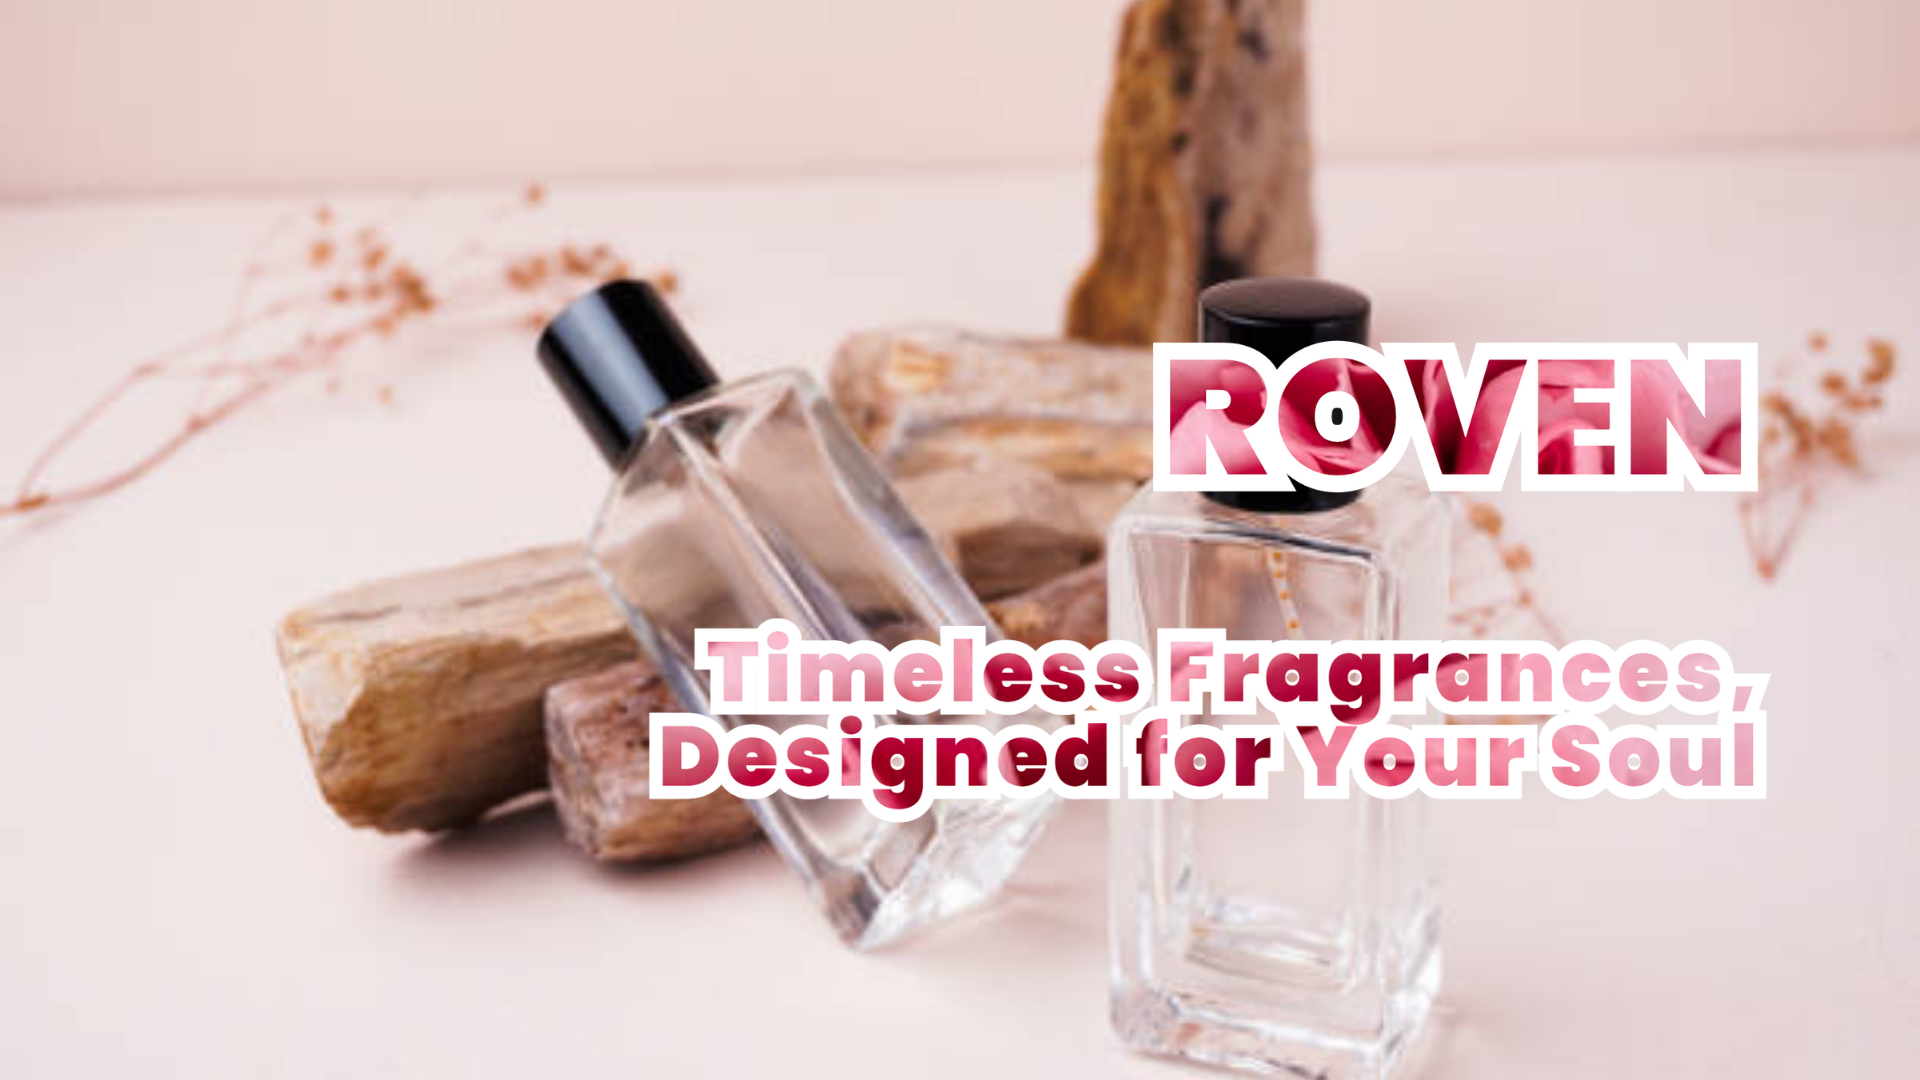
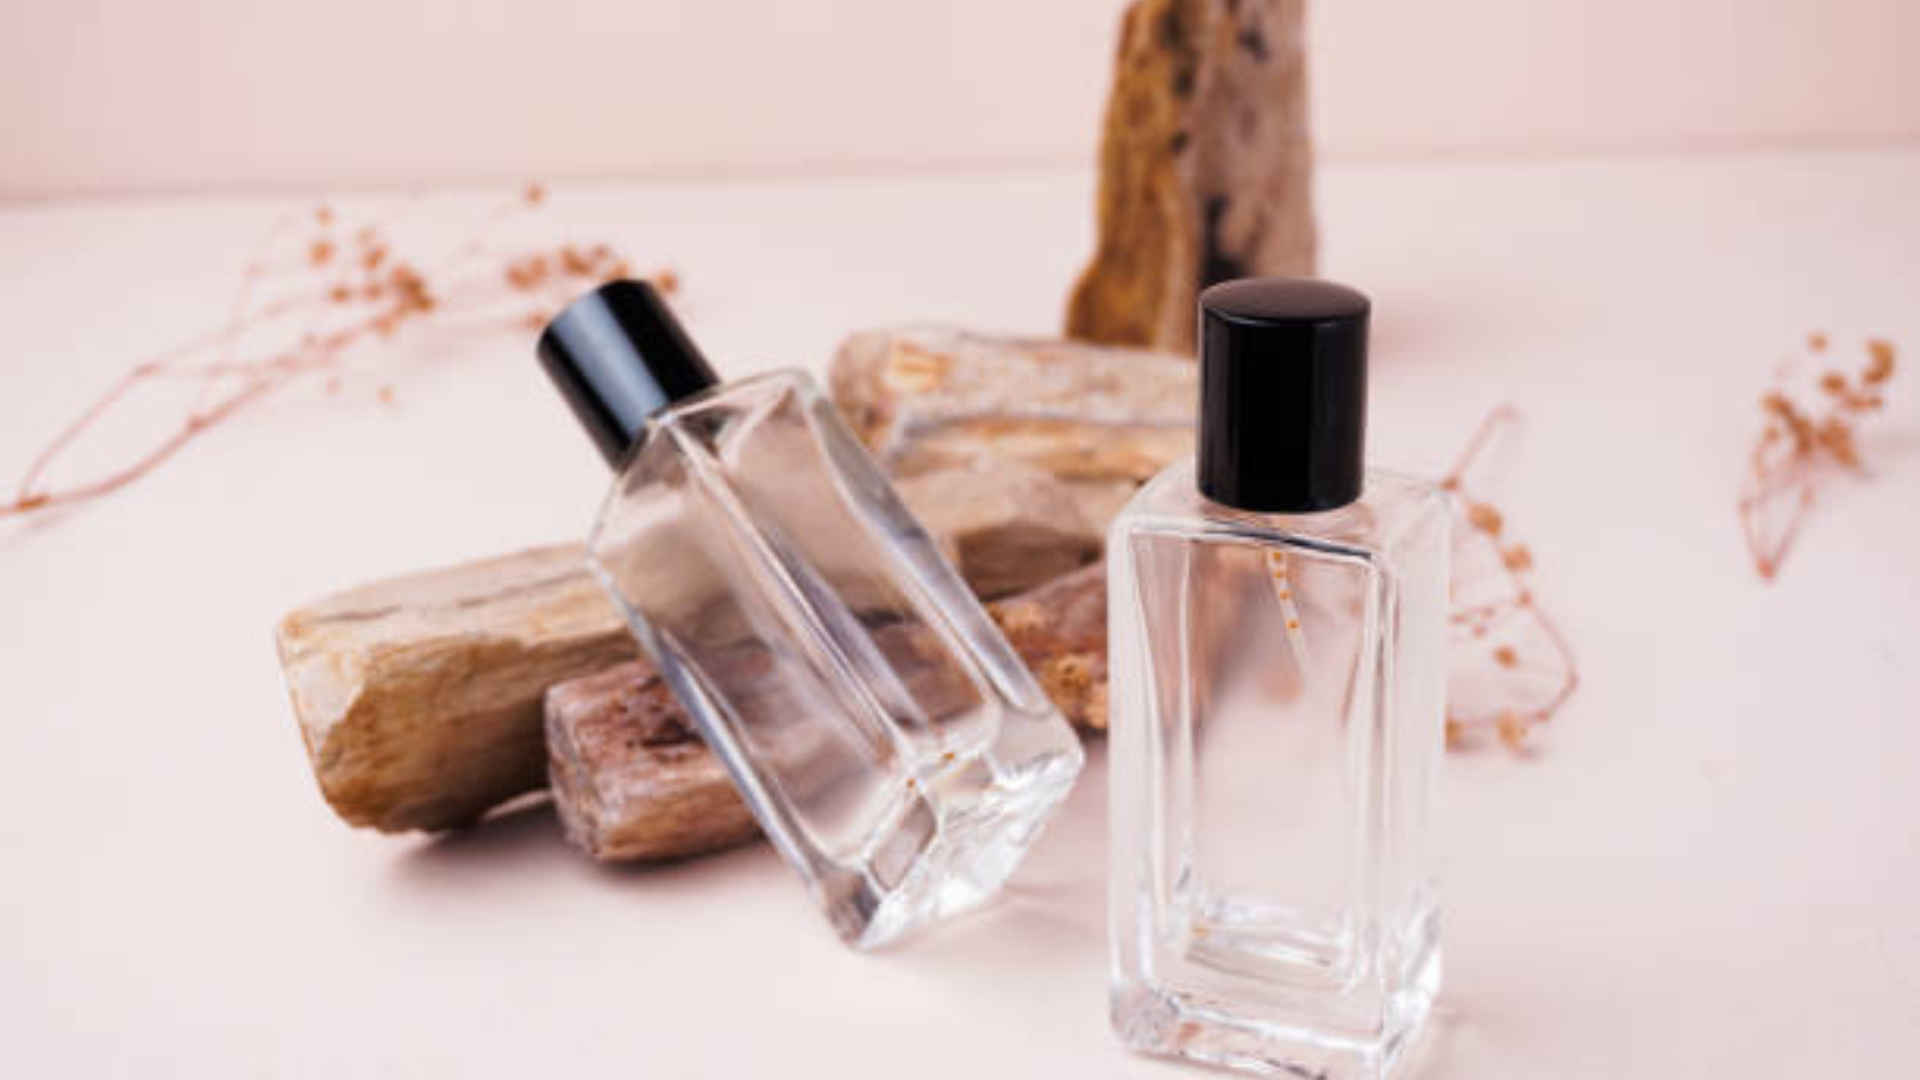
Home

Changed region(s): [[0.3125, 0.5806, 0.9375, 0.7639], [0.5938, 0.3056, 0.9375, 0.4583]]

diff --git a/frontend/src/pages/Home.jsx b/frontend/src/pages/Home.jsx
@@ -1,20 +1,202 @@
-import { Box, Image } from "@chakra-ui/react";
-import Background from "../assets/BG HOME MENU.png";
+import { Container, Image, VStack, Box, Flex } from "@chakra-ui/react";
+import Background from "../assets/BG HOME MENU.png"; // First Image
+import NewBackground from "../assets/PERFUME FEMININ/Perfume 13.jpg"; // Second Image
+import AnotherImage from "../assets/PERFUME FEMININ/Perfume 2.jpg"; // Third Image
+import { Button } from "./../components/ui/button";
+import Image3 from "../assets/PERFUME FEMININ/Perfume 5.jpg";
+import Image4 from "../assets/PERFUME FEMININ/Perfume 12.jpg";
 
 function Home() {
   return (
-    <Box position="relative" h="100vh" w="100vw" overflow="hidden">
-      <Image
-        src={Background}
-        alt="Background"
-        objectFit="cover"
-        w="100%"
-        h="100%"
-        position="absolute"
-        top="0"
-        left="0"
-        zIndex="-1"
-      />
+    <Box overflow="hidden">
+      {" "}
+      {/* Wrapping everything in Box to manage overflow and alignment */}
+      {/* Top Image Section */}
+      <Box
+        position="relative"
+        height="80vh" // Adjust the image height as needed
+        width="100vw" // Make the image span the full width of the viewport
+        overflow="visible"
+        zIndex={0} // Image stays behind content
+      >
+        <Image
+          src={Background}
+          alt="Logo Roven"
+          objectFit="cover"
+          width="100vw" // Ensure the image covers the entire viewport width
+          height="100%" // Keep the image height at 100% of its container height
+          position="absolute"
+          top="-10%" // Allow the image to overflow vertically
+          left="0" // Ensure the image starts from the left edge of the screen
+          zIndex={-1} // Ensure image stays behind the content
+        />
+      </Box>
+      {/* First Section: Image on the Right, Button on the Left */}
+      <Container maxW="container.xl" py={0.5}>
+        {" "}
+        {/* Reduced the padding to 0 */}
+        <Flex
+          direction={{ base: "column", lg: "row" }}
+          align="center"
+          justify="space-between"
+        >
+          {/* Left Section: Button */}
+          <Box flex="1" textAlign="center">
+            <VStack align="center" spacing={4}>
+              <Button>Mewing</Button>
+            </VStack>
+          </Box>
+
+          {/* Divider Line */}
+          <Box
+            display={{ base: "none", lg: "block" }} // Only show the divider on larger screens
+            width="1px"
+            height="100%"
+            backgroundColor="gray.300" // Light gray color for the line
+            mx={2} // Reduced margin for horizontal closeness
+          />
+
+          {/* Right Section: Image */}
+          <Box flex="1" position="relative" height="50vh" mt="-4px">
+            {" "}
+            {/* Adjusted margin-top to remove space */}
+            <Image
+              src={NewBackground} // New image for the first section
+              alt="New Image"
+              objectFit="cover"
+              width="100%"
+              height="100%"
+              position="absolute"
+              top="0"
+              left="0"
+            />
+          </Box>
+        </Flex>
+      </Container>
+      {/* Second Section: Image on the Left, Button on the Right */}
+      <Container maxW="container.xl" py={0.5}>
+        {" "}
+        {/* Reduced the padding to 0 */}
+        <Flex
+          direction={{ base: "column", lg: "row" }}
+          align="center"
+          justify="space-between"
+        >
+          {/* Left Section: Image */}
+          <Box flex="1" position="relative" height="50vh" mt="-4px">
+            {" "}
+            {/* Adjusted margin-top to remove space */}
+            <Image
+              src={AnotherImage} // New image for the second section
+              alt="Another Image"
+              objectFit="cover"
+              width="100%"
+              height="100%"
+              position="absolute"
+              top="0"
+              left="0"
+            />
+          </Box>
+
+          {/* Divider Line */}
+          <Box
+            display={{ base: "none", lg: "block" }} // Only show the divider on larger screens
+            width="1px"
+            height="100%"
+            backgroundColor="gray.300" // Light gray color for the line
+            mx={-2} // Reduced margin for horizontal closeness
+          />
+
+          {/* Right Section: Button */}
+          <Box flex="1" textAlign="center">
+            <VStack align="center" spacing={4}>
+              <Button>New Action</Button>
+            </VStack>
+          </Box>
+        </Flex>
+      </Container>
+      <Container maxW="container.xl" py={0.5}>
+        {" "}
+        {/* Reduced the padding to 0 */}
+        <Flex
+          direction={{ base: "column", lg: "row" }}
+          align="center"
+          justify="space-between"
+        >
+          {/* Left Section: Button */}
+          <Box flex="1" textAlign="center">
+            <VStack align="center" spacing={4}>
+              <Button>Mewing</Button>
+            </VStack>
+          </Box>
+
+          {/* Divider Line */}
+          <Box
+            display={{ base: "none", lg: "block" }} // Only show the divider on larger screens
+            width="1px"
+            height="100%"
+            backgroundColor="gray.300" // Light gray color for the line
+            mx={2} // Reduced margin for horizontal closeness
+          />
+
+          {/* Right Section: Image */}
+          <Box flex="1" position="relative" height="50vh" mt="-4px">
+            {" "}
+            {/* Adjusted margin-top to remove space */}
+            <Image
+              src={Image3} // New image for the first section
+              alt="New Image"
+              objectFit="cover"
+              width="100%"
+              height="100%"
+              position="absolute"
+              top="0"
+              left="0"
+            />
+          </Box>
+        </Flex>
+      </Container>
+      <Container maxW="container.xl" py={0.5}>
+        {" "}
+        {/* Reduced the padding to 0 */}
+        <Flex
+          direction={{ base: "column", lg: "row" }}
+          align="center"
+          justify="space-between"
+        >
+          {/* Left Section: Image */}
+          <Box flex="1" position="relative" height="50vh" mt="-4px">
+            {" "}
+            {/* Adjusted margin-top to remove space */}
+            <Image
+              src={Image4} // New image for the second section
+              alt="Another Image"
+              objectFit="cover"
+              width="100%"
+              height="100%"
+              position="absolute"
+              top="0"
+              left="0"
+            />
+          </Box>
+
+          {/* Divider Line */}
+          <Box
+            display={{ base: "none", lg: "block" }} // Only show the divider on larger screens
+            width="1px"
+            height="100%"
+            backgroundColor="gray.300" // Light gray color for the line
+            mx={-2} // Reduced margin for horizontal closeness
+          />
+
+          {/* Right Section: Button */}
+          <Box flex="1" textAlign="center">
+            <VStack align="center" spacing={4}>
+              <Button>New Action</Button>
+            </VStack>
+          </Box>
+        </Flex>
+      </Container>
     </Box>
   );
 }

diff --git a/frontend/src/App.jsx b/frontend/src/App.jsx
@@ -10,7 +10,7 @@ function App() {
   return (
     <>
       <Box>
-        <Navbar />
+        <Navbar zIndex={1} />
         <Routes>
           <Route path="/" element={<Home />} />
           <Route path="/login" element={<Login />} />
